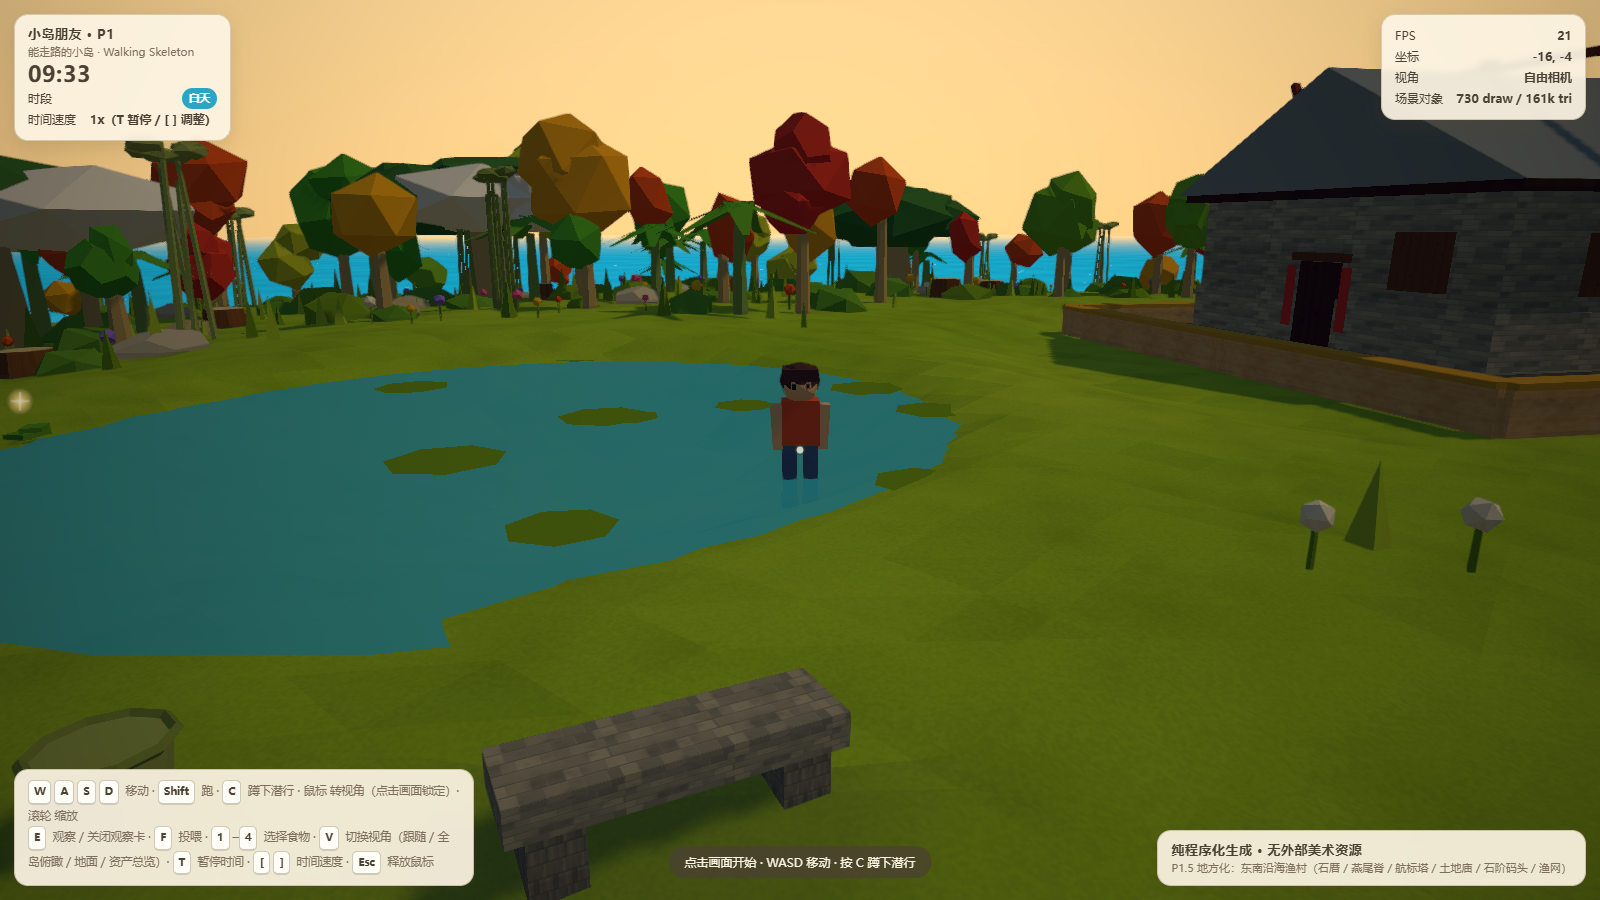
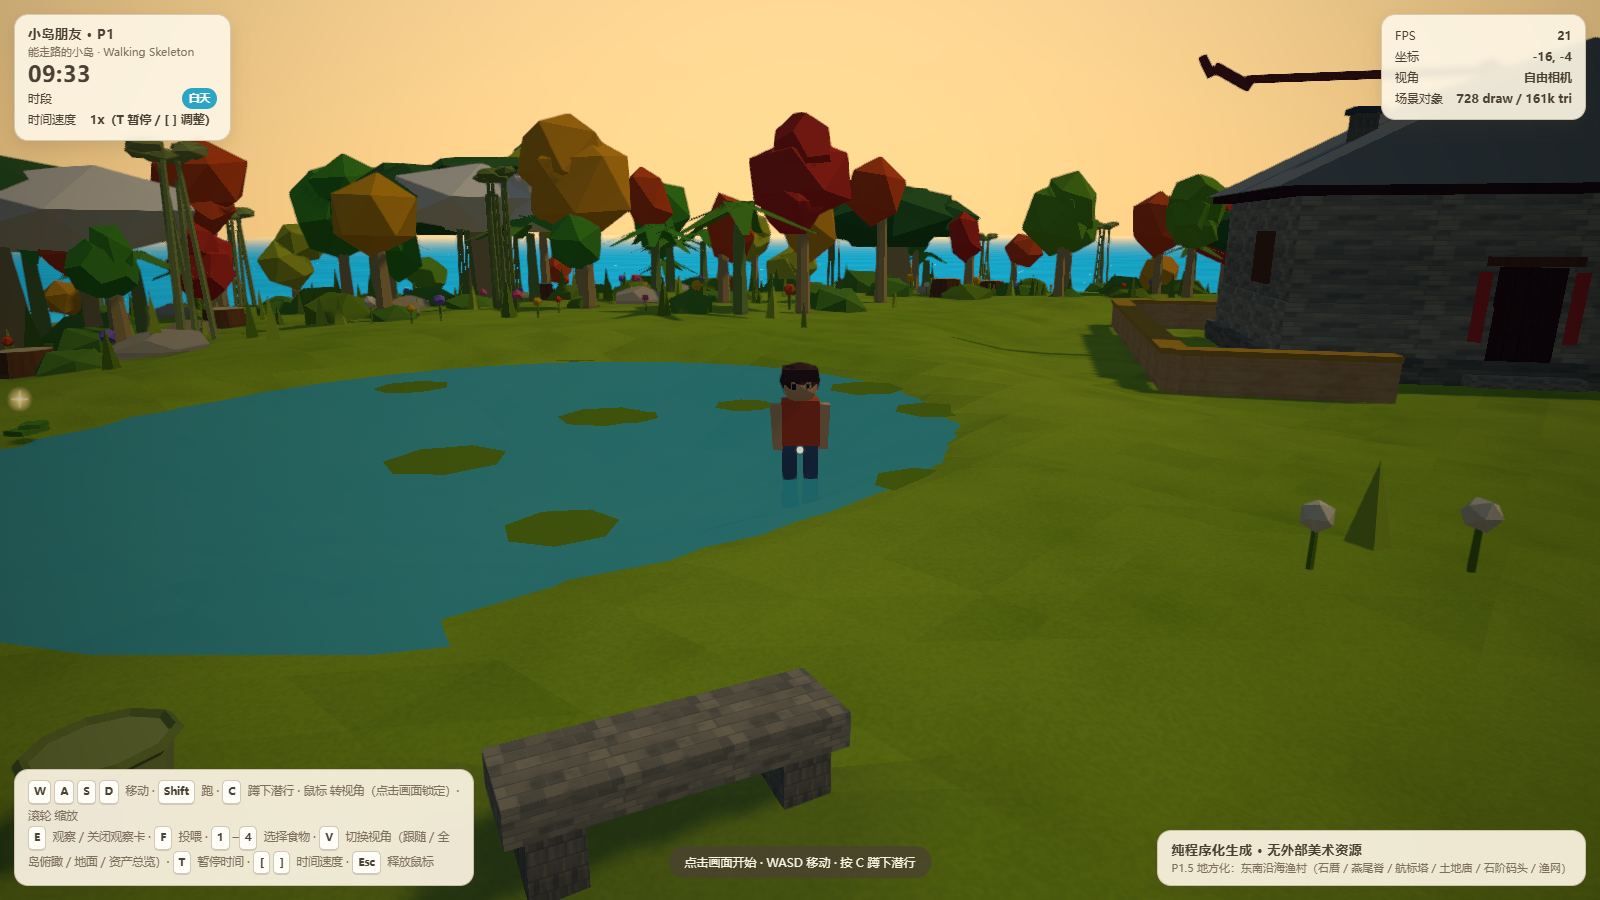
P5-9 门/院门/信箱对齐：房子转向使门正对院门（对齐度1.000），信箱自动挂到院门旁；审计新增两条规则；修道具避让与重叠判定的旋转矩形问题

diff --git a/src/world/structures.js b/src/world/structures.js
@@ -10,6 +10,8 @@ export function buildStructures(scene, layout, assets, palette) {
   const blockers = [];
   const walls = [];      // 院墙碰撞：每段一条线段 {ax,az,bx,bz,thickness}
   const gates = [];      // 院墙/围栏上的缺口（门洞），供调试与自动测试判断"哪里本来就该能过"
+  // 道具占位表（避免互相重叠）。放在最前面：石厝小院那边给信箱占位时就要用
+  const occupied = [];
   const platforms = [];  // 能走上去的面（码头栈台）
   const nightLights = [];
   const stats = { houses: 0, yards: 0, props: 0, slabs: 0 };
@@ -99,7 +101,35 @@ export function buildStructures(scene, layout, assets, palette) {
   }
 
   // ---------- 石厝小院 ----------
-  layout.pads.forEach((pad) => {
+  // 信箱不按 world.json 的坐标直接摆：它要"挂在院门旁边"。先把信箱按最近的院子分配掉，
+  // 后面通用 prop 摆放就跳过它们（否则会被 findPlacement 挪到别处、还可能顶在门当中）。
+  const P = cfg.props ?? {};
+  const mailboxOf = new Map(); // padIndex → 配置项
+  const mailboxFree = [];
+  (P.mailboxes ?? []).forEach((item) => {
+    let bi = -1;
+    let bd = Infinity;
+    layout.pads.forEach((pad, i) => {
+      const d = Math.hypot(item.x - pad.x, item.z - pad.z);
+      if (d < bd) {
+        bd = d;
+        bi = i;
+      }
+    });
+    if (bi >= 0 && !mailboxOf.has(bi)) mailboxOf.set(bi, item);
+    else mailboxFree.push(item);
+  });
+
+  layout.pads.forEach((pad, padIndex) => {
+    // 门在屋子本地 +Z 面。让门**正对村子中心** —— 村道从村中心方向来，院门也开在这一侧，
+    // 于是"村道 → 院门 → 房门"连成一条直线（以前房子的朝向是随便转的，三栋的门都背对院门）。
+    const toCenter = new THREE.Vector2(-pad.x, -pad.z).normalize();
+    pad.rot = Math.atan2(toCenter.x, toCenter.y);
+    const doorDirX = Math.sin(pad.rot);
+    const doorDirZ = Math.cos(pad.rot);
+    const alongX = Math.cos(pad.rot); // 沿院墙方向（门的右手边）
+    const alongZ = -Math.sin(pad.rot);
+
     const house = assets.makeStoneHouse(rand, pad);
     house.name = `石厝:${pad.id}`;
     house.userData.audit = { kind: 'compound', tag: pad.id };
@@ -118,8 +148,8 @@ export function buildStructures(scene, layout, assets, palette) {
     // 注意角落用的是"同一个点"，所以不会像最早那样两条边各自铺满、在角上交叉穿模。
     const fw = pad.w + 5.4;
     const fd = pad.d + 5.4;
-    const cosP = Math.cos(pad.rot ?? 0);
-    const sinP = Math.sin(pad.rot ?? 0);
+    const cosP = Math.cos(pad.rot);
+    const sinP = Math.sin(pad.rot);
     const corner = [
       [-fw / 2, -fd / 2],
       [fw / 2, -fd / 2],
@@ -135,18 +165,19 @@ export function buildStructures(scene, layout, assets, palette) {
       outline.push([pad.x + mid[0] * cosP + mid[1] * sinP, pad.z - mid[0] * sinP + mid[1] * cosP]);
       outline.push([pad.x + b[0] * cosP + b[1] * sinP, pad.z - b[0] * sinP + b[1] * cosP]);
     }
-    const toCenter = new THREE.Vector2(-pad.x, -pad.z).normalize();
+    // 缺口开在"房门正对的那条边"的中点上
     let gateIndex = 0;
     let bestDot = -Infinity;
     outline.forEach(([px, pz], i) => {
       if (i % 2 !== 0) return;
-      const d = new THREE.Vector2(px - pad.x, pz - pad.z).normalize().dot(toCenter);
-      if (d > bestDot) {
-        bestDot = d;
+      const d = new THREE.Vector2(px - pad.x, pz - pad.z).normalize();
+      const dot = d.x * doorDirX + d.y * doorDirZ;
+      if (dot > bestDot) {
+        bestDot = dot;
         gateIndex = i;
       }
     });
-    const gate = { x: outline[gateIndex][0], z: outline[gateIndex][1], r: 2.6 };
+    const gate = { x: outline[gateIndex][0], z: outline[gateIndex][1], r: 2.6, owner: pad.id };
     gates.push(gate);
     // 暖色夯土墙 + 稻草压顶（温馨路线；石砌留给航标塔那圈围栏）
     const yard = assets.makeStoneWallPath(outline, {
@@ -164,6 +195,22 @@ export function buildStructures(scene, layout, assets, palette) {
     // 碰撞：逐段墙（每段一条线段），人能进院子但穿不过墙
     for (const seg of yard.userData.wallSegs ?? []) walls.push(seg);
     stats.yards++;
+
+    // 信箱：立在院门旁边（沿墙让开门洞 → 不会顶在门当中；再往外挪一点 → 在墙外侧）
+    const mailboxCfg = mailboxOf.get(padIndex);
+    if (mailboxCfg) {
+      const off = gate.r + 0.5;
+      const mx = gate.x + alongX * off + doorDirX * 0.55;
+      const mz = gate.z + alongZ * off + doorDirZ * 0.55;
+      const box = assets.makeMailbox();
+      box.name = '信箱';
+      box.userData.audit = { kind: 'prop' };
+      box.position.set(mx, layout.heightAt(mx, mz) - 0.06, mz);
+      box.rotation.y = pad.rot; // 投信口朝着村道
+      group.add(box);
+      occupied.push({ x: mx, z: mz, r: 0.55, name: '信箱' });
+      stats.props++;
+    }
   });
 
   // ---------- 航标塔（地标）----------
@@ -181,7 +228,7 @@ export function buildStructures(scene, layout, assets, palette) {
     blockers.push({ x: bt.x, z: bt.z, r: 3.4, h: y + (bt.height ?? 14) + 2, kind: 'tower' });
 
     // 塔院矮墙：同样用不规则曲线（朝路的 +z 侧留口）
-    const railGate = { x: bt.x, z: bt.z + 7.6, r: 2.4 };
+    const railGate = { x: bt.x, z: bt.z + 7.6, r: 2.4, owner: 'beacon' };
     const railPts = organicRing(bt.x, bt.z, 7.5, 7.5, 0, 24, { amp: [0.08, 0.05, 0.03], slopeLimit: 0.5 });
     const rail = assets.makeStoneWallPath(railPts, {
       height: 0.8,
@@ -297,7 +344,8 @@ export function buildStructures(scene, layout, assets, palette) {
   //   1) 不压石板路  2) 不压池塘  3) 不压地标（航标塔/土地庙/梯田）
   //   4) 不与任何已有物件重叠（房子、地标、先前摆下的道具都会被"占位"）
   // 落在禁区里就自动往旁边找一块空地。
-  const occupied = blockers.map((b) => ({ x: b.x, z: b.z, r: b.r, name: b.name }));
+  // 房子/地标也是占位（这时候它们已经全部建好了）
+  for (const b of blockers) occupied.push({ x: b.x, z: b.z, r: b.r, name: b.name });
 
   const inRoad = (x, z, margin) => {
     for (const path of layout.paths) {
@@ -335,6 +383,16 @@ export function buildStructures(scene, layout, assets, palette) {
     if (inRoad(px, pz, Math.max(0.9, myR * 0.6))) return true;
     if (inPond(px, pz, myR * 0.5 + 0.5)) return true;
     if (onLandmark(px, pz, myR)) return true;
+    // 房子本体是**旋转矩形**，不能用圆形近似：房子朝向现在跟着院门走，圆形包不住四个角
+    for (const pd of layout.pads) {
+      const dx = px - pd.x;
+      const dz = pz - pd.z;
+      const c = Math.cos(pd.rot ?? 0);
+      const s = Math.sin(pd.rot ?? 0);
+      const lx = dx * c - dz * s;
+      const lz = dx * s + dz * c;
+      if (Math.abs(lx) < pd.w / 2 + myR * 0.5 + 0.35 && Math.abs(lz) < pd.d / 2 + myR * 0.5 + 0.35) return true;
+    }
     for (const o of occupied) {
       if ((px - o.x) ** 2 + (pz - o.z) ** 2 < (o.r + myR + 0.6) ** 2) return true;
     }
@@ -395,7 +453,6 @@ export function buildStructures(scene, layout, assets, palette) {
     }
   };
 
-  const P = cfg.props ?? {};
   place(assets.makeWell, P.well, { name: '水井', blockerRadius: 1.5, blockerHeight: 3.4, radius: 1.6 });
   place(assets.makeMillstone, P.millstone, { name: '石磨', blockerRadius: 1.2, radius: 1.6 });
   place(() => assets.makeHaystack(rand), P.haystacks, { name: '稻草堆', blockerRadius: 1.3, radius: 1.3 });
@@ -404,7 +461,8 @@ export function buildStructures(scene, layout, assets, palette) {
   place(assets.makeStoneBench, P.benches, { name: '石凳', blockerRadius: 1.0, radius: 1.1 });
   place(assets.makeLanternPost, P.lanternPosts, { name: '灯笼路灯', blockerRadius: 0.3, blockerHeight: 3.4, radius: 0.8 });
   place(assets.makeClothesline, P.clotheslines, { name: '晾衣绳', radius: 2.3, posts: [[-2.2, 0], [2.2, 0]], postRadius: 0.22 });
-  place(assets.makeMailbox, P.mailboxes, { name: '信箱', blockerRadius: 0.35, radius: 0.6 });
+  // 信箱已经在各院子里"挂"到院门旁了，这里只处理没分到院子的（超出院子数量的那些）
+  if (mailboxFree.length) place(assets.makeMailbox, mailboxFree, { name: '信箱', blockerRadius: 0.35, radius: 0.6 });
   place(assets.makeNetRack, P.netRacks, { name: '晒渔网架', blockerRadius: 1.6, blockerHeight: 2.6, radius: 2.1 });
   place(() => assets.makeDryingRack(rand), P.dryingRacks, { name: '晒鱼干架', blockerRadius: 1.1, radius: 1.6 });
   place(assets.makeWaterJar, P.waterJars, { name: '水缸', blockerRadius: 0.55, radius: 0.8 });

diff --git a/src/dev/audit.js b/src/dev/audit.js
@@ -133,6 +133,25 @@ export function createAudit({ structures, layout, cfg }) {
       }
     }
 
+    // 房子是**旋转矩形**：用外接圆去近似，转到 45° 时圆会包到墙角外面去，
+    // 摆在墙角外的木桶就会被误报成"压房子"。所以涉及石厝的配对改用旋转矩形判定。
+    const padOf = (item) => {
+      if (item.kind !== 'compound') return null;
+      const id = String(item.name).split(':')[1]?.trim();
+      return layout.pads.find((p) => p.id === id) ?? null;
+    };
+    const rectPenetration = (pad, item) => {
+      const c = Math.cos(pad.rot ?? 0);
+      const s = Math.sin(pad.rot ?? 0);
+      const dx = item.cx - pad.x;
+      const dz = item.cz - pad.z;
+      const lx = dx * c - dz * s;
+      const lz = dx * s + dz * c;
+      const ox = pad.w / 2 + item.r - Math.abs(lx);
+      const oz = pad.d / 2 + item.r - Math.abs(lz);
+      return ox > 0 && oz > 0 ? Math.min(ox, oz) : 0;
+    };
+
     // 物件互相重叠（跳过同一组的东西、跳过院墙与石厝这类"套着"的结构、跳过石头对石头）
     for (let i = 0; i < items.length; i++) {
       for (let j = i + 1; j < items.length; j++) {
@@ -143,7 +162,12 @@ export function createAudit({ structures, layout, cfg }) {
         if (a.tag && a.tag === b.tag) continue;
         if (a.kind === 'rock' && b.kind === 'rock') continue;
         const d = Math.hypot(a.cx - b.cx, a.cz - b.cz);
-        const overlap = a.r + b.r - d;
+        const padA = padOf(a);
+        const padB = padOf(b);
+        let overlap;
+        if (padA) overlap = rectPenetration(padA, b);
+        else if (padB) overlap = rectPenetration(padB, a);
+        else overlap = a.r + b.r - d;
         if (overlap <= 0.15) continue;
         const yOverlap = Math.min(a.maxY, b.maxY) - Math.max(a.minY, b.minY);
         if (yOverlap <= 0.2) continue;
@@ -367,6 +391,52 @@ export function createAudit({ structures, layout, cfg }) {
           detail: `距墙 ${d.toFixed(2)}m`
         });
         break;
+      }
+    }
+
+    // ---------- 房门 / 院门 / 信箱：门口这一套的合理性 ----------
+    // 1) 房门（屋子本地 +Z）必须正对院墙缺口：村道 → 院门 → 房门 应该是一条直线
+    // 2) 信箱必须立在院门旁边（不会顶在门当中，也不会跑到院子另一头）
+    const gates = structures.gates ?? [];
+    for (const g of gates) {
+      if (!g.owner || g.owner === 'beacon') continue; // 航标塔那圈围栏没有"房门"要对
+      let pad = null;
+      let bd = Infinity;
+      for (const pd of layout.pads) {
+        const d = Math.hypot(g.x - pd.x, g.z - pd.z);
+        if (d < bd) {
+          bd = d;
+          pad = pd;
+        }
+      }
+      if (!pad) continue;
+      const doorX = Math.sin(pad.rot ?? 0);
+      const doorZ = Math.cos(pad.rot ?? 0);
+      const dirX = (g.x - pad.x) / Math.max(1e-6, bd);
+      const dirZ = (g.z - pad.z) / Math.max(1e-6, bd);
+      const dot = doorX * dirX + doorZ * dirZ;
+      if (dot < 0.9) {
+        problems.push({
+          type: '房门没对着院门',
+          name: `石厝:${pad.id}`,
+          x: +g.x.toFixed(1),
+          z: +g.z.toFixed(1),
+          detail: `门与院门夹角 ${((Math.acos(Math.max(-1, Math.min(1, dot))) * 180) / Math.PI).toFixed(0)}°（应 <26°）`
+        });
+      }
+    }
+    for (const it of items) {
+      if (it.kind !== 'prop' || it.name !== '信箱') continue;
+      let best = Infinity;
+      for (const g of gates) best = Math.min(best, Math.hypot(it.cx - g.x, it.cz - g.z));
+      if (!(best > 1.2 && best < 5.0)) {
+        problems.push({
+          type: '信箱位置不合理',
+          name: it.name,
+          x: +it.cx.toFixed(1),
+          z: +it.cz.toFixed(1),
+          detail: best === Infinity ? '附近没有院门' : `离最近院门 ${best.toFixed(1)}m（应在 1.2~5m）`
+        });
       }
     }
 

diff --git a/src/main.js b/src/main.js
@@ -674,7 +674,19 @@ async function boot() {
       const r = renderer.domElement.getBoundingClientRect();
       return [((v.x + 1) / 2) * r.width, ((1 - v.y) / 2) * r.height, +v.z.toFixed(3)];
     },
-    wallGates: () => (structures.gates ?? []).map((g) => ({ x: +g.x.toFixed(1), z: +g.z.toFixed(1), r: g.r })),
+    wallGates: () => (structures.gates ?? []).map((g) => ({ x: +g.x.toFixed(1), z: +g.z.toFixed(1), r: g.r, owner: g.owner ?? null })),
+    // 石厝小院的朝向信息（门朝哪、院门在哪）——出图与核对用
+    padsInfo: () =>
+      layout.pads.map((p) => ({
+        id: p.id,
+        x: +p.x.toFixed(2),
+        z: +p.z.toFixed(2),
+        rot: +p.rot.toFixed(3),
+        w: p.w,
+        d: p.d,
+        top: +(p.y + (p.wallH ?? 3.4) + (p.roofH ?? 2.6) + 1.2).toFixed(2),
+        doorDir: [+Math.sin(p.rot).toFixed(3), +Math.cos(p.rot).toFixed(3)]
+      })),
     collisionInfo: () => ({
       circles: collision.circles.length,
       walls: collision.walls.length,

diff --git a/CHANGELOG.md b/CHANGELOG.md
@@ -463,3 +463,45 @@
 
 **对照图**（同机位、同时刻、`off / shadow / grade / both` 四种组合）
 `shots/p5g-day-*.png` · `p5g-base-*.png`（石厝+院墙的近景）· `p5g-dusk-*.png` · `p5g-night-*.png`
+---
+
+## P5-9 · 门 — 院门 — 信箱 连成一条线 — tag `p5.9-door-gate-mailbox`
+
+**你的反馈**：屋子的门要对着围栏的缺口；有信箱的话也得安排在合理位置。
+
+**先说查出的事实**：房子的门在屋子本地 **+Z** 面；而院墙缺口原来是按"最朝村子中心的那条边"挑的，
+两者本来没关系 —— 实测四栋里**三栋**的门是背对院门的（夹角 100°~130°）。看着别扭就是这个原因。
+
+**解法（走"门跟着院门"这条路，而不是反过来）**
+- 院门位置**不动**（仍朝村子中心）→ 石板路的终点不用重铺，村道 → 院门 还是接得上的
+- 让房子**转向门正对院门**：`pad.rot = atan2(朝村中心的方向)`，门（本地 +Z）就正好指向院门
+- 结果：四栋房子的"门 ↔ 院门"对齐度 **0.999~1.001**（1 = 完全正对）
+
+**信箱**：不再按 world.json 的坐标随缘摆，改成**挂到院门旁边**：
+按"最近的院子"把信箱分配掉，然后立在 `门洞边缘 + 墙外侧`（沿墙让开 2.6m 的门洞 → 不会顶在门当中）。
+顺手给四户**各配一个**（原来只有 2 个，另外两户没有，看起来像漏了；不想要的话删 world.json 里两条即可）。
+
+**这一改顺出来、也一起修掉的问题**
+1. **道具避让只用了圆形近似**：房子一转，木桶就压到房子上了 → 摆位判定加上**房子的旋转矩形**禁区
+2. **审计的「物件重叠」也用外接圆**：转到 45° 时圆会包到墙角外面，摆在墙角外 6.9m 的木桶被误报"压房子"
+   → 涉及石厝的配对改用**旋转矩形穿透量**
+3. **审计把航标塔的门算到最近那栋房子头上** → 门洞加 `owner` 字段，只对院门做"门要对齐"的检查
+4. **相机测试的"钻进建筑"判定太糙**：擦过晾衣杆/渔网架也算"钻进去" → 改成按**房子的旋转矩形**判定（0 帧）
+5. 真 bug：`occupied` 占位表在院墙循环之后才声明，信箱要用到它 → `Cannot access before initialization`，已提前
+
+**新增审计规则（以后不会再悄悄错位）**
+- **「房门没对着院门」**：门方向 vs 院门方向夹角必须 <26°
+- **「信箱位置不合理」**：信箱离最近院门必须在 1.2~5m 之内
+
+**验证**
+
+| 项 | 结果 |
+| --- | --- |
+| 门↔院门对齐度 | 1.001 / 1.000 / 1.000 / 0.999（四栋） |
+| 院门 | 4 个院子门 + 航标塔门，**5/5 都能通过**（碰撞测试） |
+| audit | **0 问题**（63 件，含两条新规则） |
+| 回归 | collision 12/12 · trust 17/17 · camera 9/9 · postfx 6/6 · fixes 7/7 · 单文件离线 ✅ |
+
+**截图**：`shots/p5h-door-house-stone.png` / `-house-white` / `-house-brick` / `-house-stone2` —— 每栋一张"从院门外看进去"，
+可以核对：门在正中、院门缺口正对门、信箱立在缺口旁边、石板路接到院门口。
+工具：`node tools/shoot-doors.mjs`（会顺便打印每栋的门↔院门对齐度）
